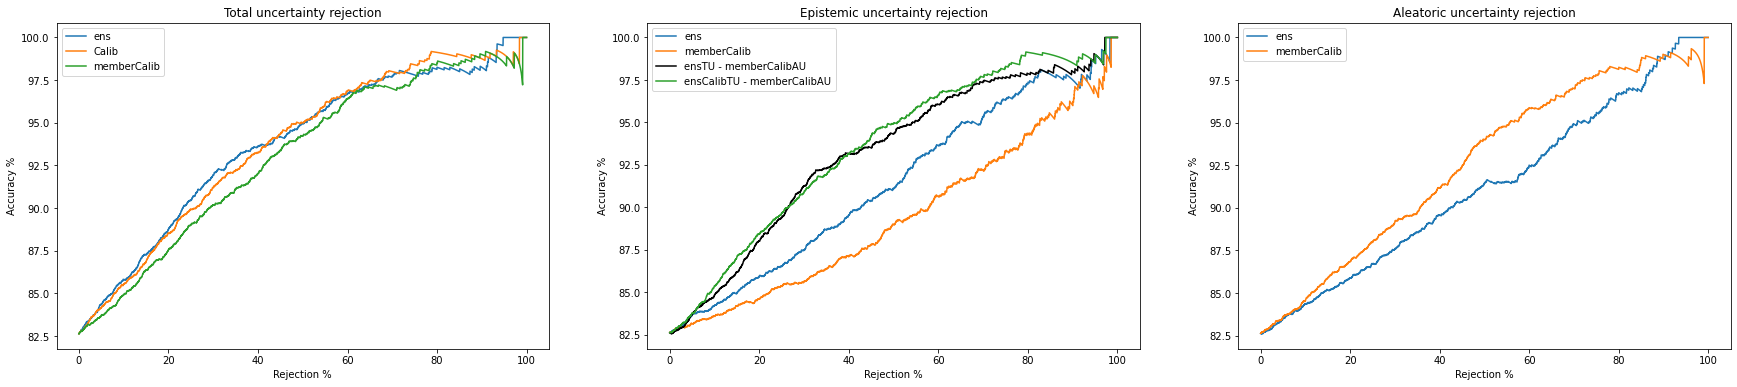
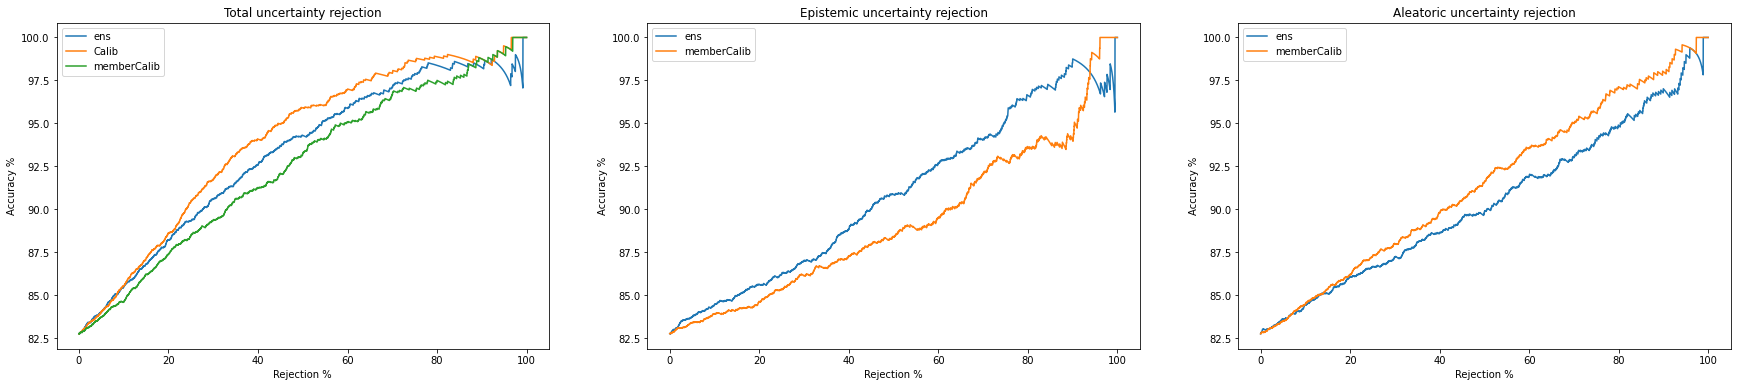
fix in using calib data to train calibmodel. the results are not good

diff --git a/ens_calib_unc_cv.py b/ens_calib_unc_cv.py
@@ -1,0 +1,167 @@
+from os import sep
+import numpy as np
+import Uncertainty as unc
+import UncertaintyM as uncM
+import Data.data_provider as dp
+import matplotlib.pyplot as plt
+from sklearn.model_selection import train_test_split
+from sklearn.ensemble import RandomForestClassifier
+from sklearn.linear_model import LogisticRegression
+from sklearn.isotonic import IsotonicRegression
+from sklearn.model_selection import KFold
+from sklearn.utils import shuffle
+from sklearn.calibration import CalibratedClassifierCV, CalibrationDisplay
+from sklearn.metrics import roc_auc_score
+
+# load data
+features, target = dp.load_data("cifar10small") # cifar10small
+
+tu_auroc = []
+eu_auroc = []
+au_auroc = []
+tumc_auroc = []
+eumc_auroc = []
+aumc_auroc = []
+tuc_auroc = []
+
+tu_ood_auroc = []
+eu_ood_auroc = []
+au_ood_auroc = []
+tumc_ood_auroc = []
+eumc_ood_auroc = []
+aumc_ood_auroc = []
+tuc_ood_auroc = []
+
+for seed in range(10):
+    print(seed)
+    # seperate id from ood
+    features, target = shuffle(features, target, random_state=seed)
+    classes = np.unique(target)
+    selected_id = np.random.choice(classes,int(len(classes)/2),replace=False) # select id classes
+    id_index = np.argwhere(np.isin(target,selected_id)) # get index of all id instances
+    ood_index = np.argwhere(np.isin(target,selected_id,invert=True)) # get index of all not selected classes (OOD)
+
+    cv_outer = KFold(n_splits=5, shuffle=False)
+    for train_ix, test_ix in cv_outer.split(features):
+        # geting the train and test data with the Kfold indexes intersected with id data
+        x_train, x_test_all = features[np.intersect1d(train_ix, id_index)], features[np.intersect1d(test_ix, id_index)]
+        y_train, y_test_all = target[np.intersect1d(train_ix, id_index)], target[np.intersect1d(test_ix, id_index)]
+        # spliting all test data to test and calibration
+        test_len = len(x_test_all)
+        x_test  = x_test_all[:int(test_len/2)]
+        y_test  = y_test_all[:int(test_len/2)]
+        x_calib = x_test_all[int(test_len/2):]
+        y_calib = y_test_all[int(test_len/2):]
+        
+        # create ood test dataset with mix of id and ood
+        x_ood,   y_ood  = features[np.intersect1d(test_ix, ood_index)],target[np.intersect1d(test_ix, ood_index)]
+        minlen = len(x_test)
+        if len(x_test) < minlen:
+            minlen = len(x_ood)
+        y_test_idoodmix = np.concatenate((np.zeros(minlen), np.ones(minlen)), axis=0)
+        x_test_idoodmix = np.concatenate((x_test[:minlen], x_ood[:minlen]), axis=0)
+
+        # train normal model
+        model = RandomForestClassifier(max_depth=10, n_estimators=10, random_state=seed)
+        model.fit(x_train, y_train)
+        predictions_x_test = model.predict(x_test)
+        # print("Ens model test score = ", model.score(x_test, y_test))
+        
+        # train calibrated model
+        calib_method = "isotonic" # 
+        model_calib = CalibratedClassifierCV(model, cv=5, method=calib_method)
+        model_calib.fit(x_train, y_train)
+
+        prob_x_calib = model.predict_proba(x_calib)
+        lr = LogisticRegression(C=99999999999)
+        lr.fit(prob_x_calib, y_calib)
+
+        # iso = IsotonicRegression()
+        # iso.fit(prob_x_calib, y_calib)
+
+        prob_x_test = model.predict_proba(x_test)
+        prob_x_test_calib = lr.predict_proba(prob_x_test)
+
+
+        prob_x_test_idoodmix = model.predict_proba(x_test_idoodmix)
+        prob_x_test_calib_idoodmix = lr.predict_proba(prob_x_test_idoodmix)
+
+        # print(prob_x_test[1])
+        # print(prob_x_test_calib[1])
+
+        # print(f"prob_x_test {prob_x_test.shape} prob_x_test_calib {prob_x_test_calib.shape}")
+        # exit()
+
+        # unc Q id
+        tu, eu, au = unc.model_uncertainty(model, x_test, x_train, y_train)
+        tumc, eumc, aumc = unc.calib_ens_member_uncertainty(model, x_test, x_train, y_train, x_calib, y_calib, calib_method=calib_method)
+        tuc = unc.calib_ens_total_uncertainty(prob_x_test_calib)
+        # unc Q id OOD 
+        tu_ood, eu_ood, au_ood = unc.model_uncertainty(model, x_test_idoodmix, x_train, y_train)
+        tumc_ood, eumc_ood, aumc_ood = unc.calib_ens_member_uncertainty(model, x_test_idoodmix, x_train, y_train, x_calib, y_calib)
+        tuc_ood = unc.calib_ens_total_uncertainty(prob_x_test_calib_idoodmix)
+
+        # acc-rej
+        # ens
+        tu_auroc.append(uncM.unc_auroc(predictions_x_test, y_test, tu))
+        eu_auroc.append(uncM.unc_auroc(predictions_x_test, y_test, eu))
+        au_auroc.append(uncM.unc_auroc(predictions_x_test, y_test, au))
+        # ens member calib
+        tumc_auroc.append(uncM.unc_auroc(predictions_x_test, y_test, tumc))
+        eumc_auroc.append(uncM.unc_auroc(predictions_x_test, y_test, eumc))
+        aumc_auroc.append(uncM.unc_auroc(predictions_x_test, y_test, aumc))
+        # ens calib
+        tuc_auroc.append(uncM.unc_auroc(predictions_x_test, y_test, tuc))
+
+        # OOD test
+        # ens
+        tu_ood_auroc.append(roc_auc_score(y_test_idoodmix, tu_ood))
+        eu_ood_auroc.append(roc_auc_score(y_test_idoodmix, eu_ood))
+        au_ood_auroc.append(roc_auc_score(y_test_idoodmix, au_ood))
+        # ens member calib
+        tumc_ood_auroc.append(roc_auc_score(y_test_idoodmix, tumc_ood))
+        eumc_ood_auroc.append(roc_auc_score(y_test_idoodmix, eumc_ood))
+        aumc_ood_auroc.append(roc_auc_score(y_test_idoodmix, aumc_ood))
+        # ens calib
+        tuc_ood_auroc.append(roc_auc_score(y_test_idoodmix, tuc_ood))
+
+
+tu_auroc_avg = np.array(tu_auroc).mean()
+eu_auroc_avg = np.array(eu_auroc).mean()
+au_auroc_avg = np.array(au_auroc).mean()
+tumc_auroc_avg = np.array(tumc_auroc).mean()
+eumc_auroc_avg = np.array(eumc_auroc).mean()
+aumc_auroc_avg = np.array(aumc_auroc).mean()
+tuc_auroc_avg = np.array(tuc_auroc).mean()
+
+print("------------------------------------acc-rej")
+print("Ens")
+print(f"{tu_auroc_avg* 100:.2f} Total uncertainty") 
+print(f"{eu_auroc_avg* 100:.2f} Epist uncertainty") 
+print(f"{au_auroc_avg* 100:.2f} Aleat uncertainty") 
+print("EnsMemberCalib")
+print(f"{tumc_auroc_avg* 100:.2f} Total uncertainty") 
+print(f"{eumc_auroc_avg* 100:.2f} Epist uncertainty") 
+print(f"{aumc_auroc_avg* 100:.2f} Aleat uncertainty") 
+print("EnsCalib")
+print(f"{tuc_auroc_avg* 100:.2f} Total uncertainty") 
+
+tu_ood_auroc_avg = np.array(tu_ood_auroc).mean()
+eu_ood_auroc_avg = np.array(eu_ood_auroc).mean()
+au_ood_auroc_avg = np.array(au_ood_auroc).mean()
+tumc_ood_auroc_avg = np.array(tumc_ood_auroc).mean()
+eumc_ood_auroc_avg = np.array(eumc_ood_auroc).mean()
+aumc_ood_auroc_avg = np.array(aumc_ood_auroc).mean()
+tuc_ood_auroc_avg = np.array(tuc_ood_auroc).mean()
+
+print("------------------------------------OOD test")
+print("Ens")
+print(f"{tu_ood_auroc_avg* 100:.2f} Total uncertainty") 
+print(f"{eu_ood_auroc_avg* 100:.2f} Epist uncertainty") 
+print(f"{au_ood_auroc_avg* 100:.2f} Aleat uncertainty") 
+print("EnsMemberCalib")
+print(f"{tumc_ood_auroc_avg* 100:.2f} Total uncertainty") 
+print(f"{eumc_ood_auroc_avg* 100:.2f} Epist uncertainty") 
+print(f"{aumc_ood_auroc_avg* 100:.2f} Aleat uncertainty") 
+print("EnsCalib")
+print(f"{tuc_ood_auroc_avg* 100:.2f} Total uncertainty") 

diff --git a/Uncertainty.py b/Uncertainty.py
@@ -3,6 +3,7 @@ import UncertaintyM as unc
 from sklearn.metrics import log_loss
 from scipy.stats import entropy
 from sklearn.calibration import CalibratedClassifierCV, CalibrationDisplay
+from sklearn.linear_model import LogisticRegression
 
 def model_uncertainty(model, x_test, x_train, y_train, unc_method="bays", laplace_smoothing=1, log=False):
     
@@ -15,9 +16,7 @@ def model_uncertainty(model, x_test, x_train, y_train, unc_method="bays", laplac
 
     return total_uncertainty, epistemic_uncertainty, aleatoric_uncertainty
 
-def calib_ens_total_uncertainty(model, x_test):
-    
-    probs = model.predict_proba(x_test)
+def calib_ens_total_uncertainty(probs):
     total_uncertainty = entropy(probs, base=2,axis=1)
     return total_uncertainty
 
@@ -70,11 +69,16 @@ def get_prob(model_ens, x_data, laplace_smoothing, a=0, b=0, log=False):
 
 def get_member_calib_prob(model_ens, x_data, X_calib, y_calib, calib_method="isotonic"):
     prob_matrix  = []
+
     for estimator in model_ens.estimators_:
-        model_calib = CalibratedClassifierCV(estimator, cv=10, method=calib_method)
-        model_calib.fit(X_calib, y_calib)
-        tree_prob = model_calib.predict_proba(x_data)
-        prob_matrix.append(tree_prob)
+        # model_calib = CalibratedClassifierCV(estimator, cv=3, method=calib_method)
+        model_calib = LogisticRegression(C=99999999999)
+        tree_prob_x_calib = estimator.predict_proba(X_calib)
+        model_calib.fit(tree_prob_x_calib, y_calib)
+
+        tree_prob_x_test = estimator.predict_proba(x_data)
+        tree_prob_x_test_calib = model_calib.predict_proba(tree_prob_x_test)
+        prob_matrix.append(tree_prob_x_test_calib)
     prob_matrix = np.array(prob_matrix)
     prob_matrix = prob_matrix.transpose([1,0,2]) # D1 = data index D2= ens tree index D3= prediction prob for classes
     return prob_matrix

diff --git a/UncertaintyM.py b/UncertaintyM.py
@@ -5,6 +5,8 @@ from sklearn import metrics
 from scipy import stats
 from statistics import mean
 import warnings
+from sklearn.metrics import roc_auc_score
+
 random.seed(1)
 
 def uncertainty_ent_bays(probs, likelihoods): # three dimentianl array with d1 as datapoints, (d2) the rows as samples and (d3) the columns as probability for each class
@@ -385,3 +387,10 @@ def uncertainty_distribution(predictions_list, labels_list, uncertainty_list, lo
 		unc_incorrect_all = np.concatenate((unc_incorrect_all, unc_incorrect))
 	
 	return unc_correct_all, unc_incorrect_all
+
+def unc_auroc(predictions, labels, uncertainty):
+	predictions = np.array(predictions)
+	uncertainty = np.array(uncertainty)
+
+	correctness_map = np.where(predictions == labels, 0, 1)
+	return roc_auc_score(correctness_map, uncertainty)

diff --git a/test.py b/test.py
@@ -1,0 +1,1 @@
+print("x")
